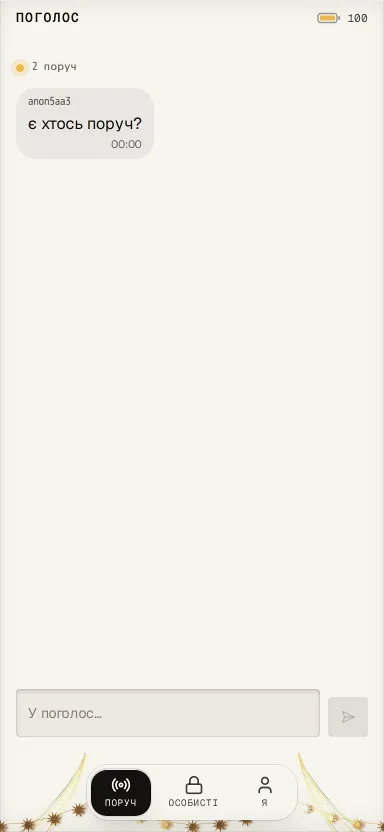
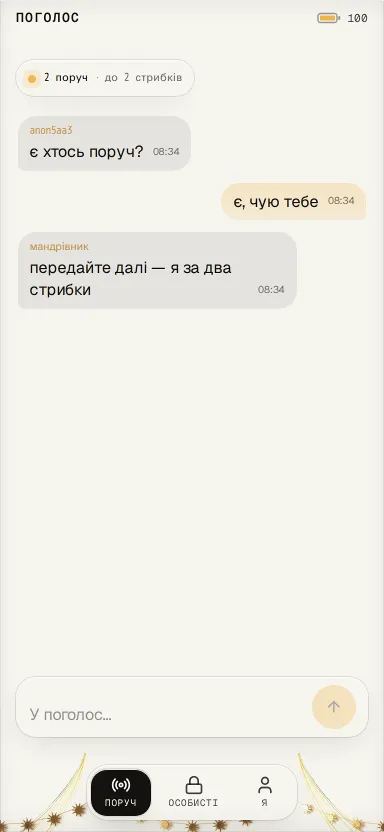
poholos: island chat redesign
The chat now sits between two glass islands (presence chip on top, the composer
at the bottom) with tailed, grouped bubbles and accent-tinted own messages —
the flat first cut is gone. Store captures refreshed for both themes.

Claude-Session: https://claude.ai/code/session_01SZDu9UJfxqsgc9qMprCseU

diff --git a/apps/poholos/view.js b/apps/poholos/view.js
@@ -1,42 +1,48 @@
-// Поголос — the two rooms of an off-grid mesh, and nothing more. All state comes from mesh.js (the bridge
-// with its browser mock); this file is pure UI. The presence line at the top of every screen is the answer
-// to "am I shouting into the void" — it is the peer count, live, from mesh.peers.
+// Поголос — the two rooms of an off-grid mesh. Pure UI over mesh.js (the bridge + its honest mock). The
+// modern shape: a scrolling feed between two glass ISLANDS — presence on top, the composer at the bottom —
+// with tailed bubbles. All depth comes from the kit's Island/surfaces, nothing hand-rolled.
 import { html } from "htm/preact";
 import { Fragment } from "preact";
 import { useState, useEffect, useRef } from "preact/hooks";
 import { atom } from "nanostores";
 import { useStore } from "@nanostores/preact";
 import { T } from "/_rt/i18n.js";
+import { Island } from "/_rt/ui.js";
 import { start, sendPublic, sendPrivate, $state, $peers, $room, $threads, $queued } from "./mesh.js";
 
 const Icon = (icon, cls) => html`<iconify-icon icon=${icon} class=${cls || ""}></iconify-icon>`;
 const clock = (ts, loc) => new Date(ts).toLocaleTimeString(loc === "uk" ? "uk-UA" : "en-US", { hour: "2-digit", minute: "2-digit" });
 const near = (t, n) => n === 0 ? T(t, "nearNone") : n === 1 ? T(t, "nearOne") : T(t, "nearMany", { n });
+const RCPT = { sent: "rcptSent", delivered: "rcptDelivered", read: "rcptRead", queued: "rcptQueued" };
 
-const $peer = atom(null);   // the private thread that is open, or null for the peer list
+const $peer = atom(null);   // the open private thread, or null for the peer list
 
-// ── presence: the one honest number, in the header of both rooms ───────────────────────────────────
+// ── presence: the one honest number, a glass chip that floats atop the feed ────────────────────────
 function Presence({ t }) {
   const s = useStore($state);
   const alone = s.peerCount === 0;
-  return html`<div class="ph-near text-muted">
-    <span class="ph-dot" data-alone=${alone ? "1" : "0"}></span>
-    <span>${near(t, s.peerCount)}${!alone && s.maxHops > 1 ? ` · ${T(t, "hops", { k: s.maxHops })}` : ""}</span>
-  </div>`;
+  return html`<${Island} className="self-start !py-1.5 !px-3 rounded-full">
+    <div class="ph-near">
+      <span class="ph-dot" data-alone=${alone ? "1" : "0"}></span>
+      <span>${near(t, s.peerCount)}</span>
+      ${!alone && s.maxHops > 1 && html`<span class="ph-near-sub">· ${T(t, "hops", { k: s.maxHops })}</span>`}
+    </div>
+  <//>`;
 }
 
-// ── the composer, shared by both rooms ─────────────────────────────────────────────────────────────
+// ── the composer, a floating island at the bottom ──────────────────────────────────────────────────
 function Composer({ t, placeholder, onSend }) {
   const [text, setText] = useState("");
   const send = () => { const v = text.trim(); if (!v) return; onSend(v); setText(""); };
-  return html`<div class="ph-composer">
-    <input class="input input-bordered ph-input h-[var(--ms-ctl)] min-h-0 rounded-[var(--ms-r-in)]"
-      value=${text} placeholder=${placeholder} spellcheck="false"
-      onInput=${(e) => setText(e.currentTarget.value)}
-      onKeyDown=${(e) => { if (e.key === "Enter") { e.preventDefault(); send(); } }} />
-    <button class="btn btn-primary btn-square rounded-[var(--ms-r-in)] shrink-0" aria-label=${T(t, "send")}
-      disabled=${!text.trim()} onClick=${send}>${Icon("lucide:send-horizontal")}</button>
-  </div>`;
+  return html`<${Island} className="!py-2 !px-3 rounded-[1.6rem]">
+    <div class="flex items-end gap-2">
+      <textarea class="ph-input" rows="1" value=${text} placeholder=${placeholder} spellcheck="false"
+        onInput=${(e) => { setText(e.currentTarget.value); e.currentTarget.style.height = "auto"; e.currentTarget.style.height = Math.min(e.currentTarget.scrollHeight, 96) + "px"; }}
+        onKeyDown=${(e) => { if (e.key === "Enter" && !e.shiftKey) { e.preventDefault(); send(); } }}></textarea>
+      <button class="ph-send" aria-label=${T(t, "send")} disabled=${!text.trim()} onClick=${send}>
+        ${Icon("lucide:arrow-up", "text-[1.1rem]")}</button>
+    </div>
+  <//>`;
 }
 
 function autoscroll(dep) {
@@ -44,6 +50,12 @@ function autoscroll(dep) {
   useEffect(() => { const el = ref.current; if (el) el.scrollTop = el.scrollHeight; }, [dep]);
   return ref;
 }
+
+const EmptyMascot = (text) => html`<div class="flex-1 grid place-items-center text-center px-6" data-mascot>
+  <p class="text-muted max-w-[15rem] leading-relaxed">${text}</p></div>`;
+
+// group flag: a message is the "first" of a run when the previous one was a different sender/side
+const firstOfRun = (list, i) => i === 0 || list[i - 1].mine !== list[i].mine || (!list[i].mine && list[i - 1].from !== list[i].from);
 
 // ── «Поруч» — the public room ──────────────────────────────────────────────────────────────────────
 export function room({ S }) {
@@ -55,35 +67,28 @@ export function room({ S }) {
   useEffect(() => { start(); }, []);
   const feed = autoscroll(msgs.length);
 
-  const empty = s.peerCount === 0
-    ? T(t, "roomEmptyAlone")
-    : T(t, "roomEmptyPeers", { n: s.peerCount });
-
   return html`<${Fragment}>
     <div class="ph-wrap h-full">
       <${Presence} t=${t} />
       ${msgs.length === 0
-        ? html`<div class="flex-1 grid place-items-center text-center px-6" data-mascot>
-            <p class="text-muted max-w-xs leading-relaxed">${empty}</p></div>`
+        ? EmptyMascot(s.peerCount === 0 ? T(t, "roomEmptyAlone") : T(t, "roomEmptyPeers", { n: s.peerCount }))
         : html`<div class="ph-feed" ref=${feed}>
-            ${msgs.map((m) => m.sys
+            ${msgs.map((m, i) => m.sys
               ? html`<div key=${m.id} class="ph-sys">${m.text}</div>`
-              : html`<div key=${m.id} class="ph-row" data-mine=${m.mine ? "1" : "0"}>
+              : html`<div key=${m.id} class="ph-row" data-mine=${m.mine ? "1" : "0"} data-first=${firstOfRun(msgs, i) ? "1" : "0"}>
                   <div class="ph-bubble">
-                    ${!m.mine && html`<div class="ph-who">${m.nick}</div>`}
-                    <div>${m.text}</div>
-                    <div class="ph-meta text-right">${clock(m.ts, loc)}</div>
+                    ${!m.mine && firstOfRun(msgs, i) && html`<div class="ph-who">${m.nick}</div>`}
+                    <span class="ph-text">${m.text}</span>
+                    <span class="ph-meta">${clock(m.ts, loc)}</span>
                   </div></div>`)}
           </div>`}
-      ${queued && html`<div class="ph-banner">${T(t, "queuedBanner")}</div>`}
+      ${queued && html`<div class="ph-banner">${Icon("lucide:clock", "opacity-70")} ${T(t, "queuedBanner")}</div>`}
       <${Composer} t=${t} placeholder=${T(t, "composerRoom")} onSend=${(v) => sendPublic(v)} />
     </div>
   <//>`;
 }
 
 // ── «Особисті» — the peer list, then a thread ──────────────────────────────────────────────────────
-const RCPT = { sent: "rcptSent", delivered: "rcptDelivered", read: "rcptRead", queued: "rcptQueued" };
-
 export function dm({ S }) {
   const t = useStore(S.t);
   const loc = useStore(S.locale);
@@ -93,25 +98,21 @@ export function dm({ S }) {
 
   if (open) return Thread({ t, loc, peerID: open });
 
-  if (peers.length === 0) return html`<${Fragment}>
-    <div class="ph-wrap h-full"><${Presence} t=${t} />
-      <div class="flex-1 grid place-items-center text-center px-6" data-mascot>
-        <p class="text-muted max-w-xs leading-relaxed">${T(t, "dmEmpty")}</p></div>
-    </div><//>`;
-
   return html`<${Fragment}>
-    <div class="ph-wrap h-full"><${Presence} t=${t} />
-      <div class="ph-feed">
-        ${peers.map((p) => html`<button key=${p.peerID}
-          class="flex items-center gap-3 w-full text-left p-2 rounded-[var(--ms-r)] hover:bg-[color-mix(in_oklch,currentColor_6%,transparent)]"
-          onClick=${() => $peer.set(p.peerID)}>
-          <span class="ph-dot" style="position:static"></span>
-          <span class="flex-1 min-w-0"><span class="block truncate">${p.nick}</span>
-            <span class="ph-meta">${T(t, p.hops === 1 ? "nearOne" : "hops", p.hops === 1 ? {} : { k: p.hops })}</span></span>
-          ${Icon("lucide:chevron-right", "text-muted shrink-0")}
-        </button>`)}
-      </div>
-    </div><//>`;
+    <div class="ph-wrap h-full">
+      <${Presence} t=${t} />
+      ${peers.length === 0
+        ? EmptyMascot(T(t, "dmEmpty"))
+        : html`<div class="ph-feed">
+            ${peers.map((p) => html`<button key=${p.peerID} class="ph-peer" onClick=${() => $peer.set(p.peerID)}>
+              <span class="ph-dot"></span>
+              <span class="flex-1 min-w-0"><span class="block truncate">${p.nick}</span>
+                <span class="ph-meta !float-none !m-0 !opacity-60">${p.hops === 1 ? T(t, "nearOne") : T(t, "hops", { k: p.hops })}</span></span>
+              ${Icon("lucide:chevron-right", "text-muted shrink-0 opacity-60")}
+            </button>`)}
+          </div>`}
+    </div>
+  <//>`;
 }
 
 function Thread({ t, loc, peerID }) {
@@ -125,13 +126,15 @@ function Thread({ t, loc, peerID }) {
       <div class="flex items-center gap-2">
         <button class="btn btn-ghost btn-sm btn-circle shrink-0" aria-label="←" onClick=${() => $peer.set(null)}>
           ${Icon("lucide:arrow-left")}</button>
-        <div class="flex-1 min-w-0"><div class="truncate font-medium">${peer?.nick || peerID}</div>
-          <div class="ph-near text-muted"><span>${T(t, "encrypted")}</span></div></div>
+        <div class="flex-1 min-w-0">
+          <div class="truncate font-medium leading-tight">${peer?.nick || peerID}</div>
+          <div class="ph-near ph-near-sub"><span>${Icon("lucide:lock", "text-[0.7rem]")}</span><span>${T(t, "encrypted")}</span></div>
+        </div>
       </div>
       <div class="ph-feed" ref=${feed}>
-        ${msgs.map((m) => html`<div key=${m.id} class="ph-row" data-mine=${m.mine ? "1" : "0"}>
-          <div class="ph-bubble"><div>${m.text}</div>
-            <div class="ph-meta text-right">${clock(m.ts, loc)}${m.mine && m.status ? ` · ${T(t, RCPT[m.status] || "rcptSent")}` : ""}</div>
+        ${msgs.map((m) => html`<div key=${m.id} class="ph-row" data-mine=${m.mine ? "1" : "0"} data-first="1">
+          <div class="ph-bubble"><span class="ph-text">${m.text}</span>
+            <span class="ph-meta">${clock(m.ts, loc)}${m.mine && m.status ? html` · ${T(t, RCPT[m.status] || "rcptSent")}` : ""}</span>
           </div></div>`)}
       </div>
       <${Composer} t=${t} placeholder=${T(t, "composerDm")} onSend=${(v) => sendPrivate(peerID, v)} />

diff --git a/apps/poholos/index.html b/apps/poholos/index.html
@@ -52,32 +52,62 @@
   }
   </script>
   <style>
-    /* Поголос — the chat surface. Bubbles, the presence pill and the composer, on the kit's tokens so a
-       material re-inks them for free. Nothing here is layout the runtime already owns. */
-    /* A chat fills the screen and pins its composer to the bottom. If the runtime slot is height-constrained
-       (h-full works) that wins; otherwise fall back to the viewport minus the MEASURED chrome the runtime
-       publishes (--hdr-h/--dock-h — never a hand-written pixel), so the composer never floats mid-void. */
-    .ph-wrap{display:flex;flex-direction:column;gap:var(--ms-gap);min-height:0;
+    /* Поголос — a modern mesh chat: a scrolling feed between two glass ISLANDS (presence on top, the
+       composer at the bottom), bubbles with a tail, depth from the kit's surfaces. Everything on the
+       --ms-* tokens and --app-accent so a material re-inks it for free. */
+    .ph-wrap{display:flex;flex-direction:column;gap:calc(var(--ms-gap)*.75);min-height:0;
       height:calc(100svh - var(--hdr-h,56px) - var(--dock-h,64px) - var(--ms-pad,1rem)*2)}
-    /* the presence pill: a pulsing node + the count. Accent when someone is near, muted when alone. */
+
+    /* presence island: a pulsing node + the count, a small glass chip that floats at the top of the feed */
     .ph-near{display:inline-flex;align-items:center;gap:.5rem;font-family:var(--ms-mono,ui-monospace,monospace);
-      font-size:var(--ms-label);letter-spacing:.04em}
-    .ph-dot{width:.5rem;height:.5rem;border-radius:999px;background:var(--app-accent);box-shadow:0 0 0 0 color-mix(in oklch,var(--app-accent) 60%,transparent);animation:ph-pulse 2.4s ease-out infinite}
-    .ph-dot[data-alone="1"]{background:color-mix(in oklch,currentColor 40%,transparent);animation:none;box-shadow:none}
-    @keyframes ph-pulse{0%{box-shadow:0 0 0 0 color-mix(in oklch,var(--app-accent) 55%,transparent)}70%{box-shadow:0 0 0 .5rem transparent}100%{box-shadow:0 0 0 0 transparent}}
+      font-size:var(--ms-label);letter-spacing:.03em;line-height:1}
+    .ph-dot{width:.5rem;height:.5rem;border-radius:999px;background:var(--app-accent);flex:none;
+      box-shadow:0 0 .5rem color-mix(in oklch,var(--app-accent) 70%,transparent);animation:ph-pulse 2.4s ease-out infinite}
+    .ph-dot[data-alone="1"]{background:color-mix(in oklch,currentColor 35%,transparent);animation:none;box-shadow:none}
+    @keyframes ph-pulse{0%{box-shadow:0 0 0 0 color-mix(in oklch,var(--app-accent) 55%,transparent)}70%{box-shadow:0 0 0 .55rem transparent}100%{box-shadow:0 0 0 0 transparent}}
     @media (prefers-reduced-motion:reduce){.ph-dot{animation:none}}
-    /* the message list scrolls; the composer stays put */
-    .ph-feed{display:flex;flex-direction:column;gap:calc(var(--ms-gap)*.6);overflow-y:auto;min-height:0;flex:1}
-    .ph-row{display:flex}
+    .ph-near-sub{opacity:.6}
+
+    /* the feed scrolls between the islands; messages grouped, comfortable rhythm */
+    .ph-feed{display:flex;flex-direction:column;gap:.28rem;overflow-y:auto;min-height:0;flex:1;
+      padding:.2rem .1rem;scrollbar-width:none}
+    .ph-feed::-webkit-scrollbar{display:none}
+    .ph-row{display:flex;max-width:100%}
     .ph-row[data-mine="1"]{justify-content:flex-end}
-    .ph-bubble{max-width:80%;padding:.5rem .75rem;border-radius:var(--ms-r);background:var(--ms-surface,color-mix(in oklch,currentColor 6%,transparent));line-height:1.35}
-    .ph-row[data-mine="1"] .ph-bubble{background:color-mix(in oklch,var(--app-accent) 16%,transparent)}
-    .ph-who{font-family:var(--ms-mono,ui-monospace,monospace);font-size:var(--ms-label);opacity:.7;margin-bottom:.1rem}
-    .ph-sys{align-self:center;font-size:var(--ms-label);opacity:.55;padding:.15rem 0}
-    .ph-meta{font-size:var(--ms-label);opacity:.6;margin-top:.15rem}
-    .ph-composer{display:flex;gap:.5rem;align-items:flex-end}
-    .ph-input{flex:1;min-width:0}
-    .ph-banner{font-size:var(--ms-label);opacity:.75;padding:.35rem .6rem;border-radius:var(--ms-r);background:color-mix(in oklch,var(--app-accent) 10%,transparent)}
+    .ph-row[data-first="1"]{margin-top:.5rem}
+
+    /* the bubble: a small raised surface with a tail on the sender's side */
+    .ph-bubble{position:relative;max-width:80%;padding:.5rem .75rem .4rem;line-height:1.4;
+      border-radius:1.15rem 1.15rem 1.15rem .4rem;
+      background:color-mix(in oklch,var(--base-content,currentColor) 7%,transparent);
+      box-shadow:0 1px 0 color-mix(in oklch,var(--base-content,currentColor) 5%,transparent)}
+    .ph-row[data-mine="1"] .ph-bubble{border-radius:1.15rem 1.15rem .4rem 1.15rem;
+      background:linear-gradient(180deg,color-mix(in oklch,var(--app-accent) 26%,transparent),color-mix(in oklch,var(--app-accent) 17%,transparent))}
+    .ph-who{font-family:var(--ms-mono,ui-monospace,monospace);font-size:var(--ms-label);
+      color:color-mix(in oklch,var(--app-accent) 78%,var(--base-content,currentColor));opacity:.9;margin-bottom:.12rem}
+    .ph-text{white-space:pre-wrap;word-break:break-word}
+    .ph-meta{display:inline-flex;gap:.3rem;align-items:center;float:right;margin:.2rem 0 -.1rem .6rem;
+      font-size:calc(var(--ms-label) * .92);opacity:.55;font-variant-numeric:tabular-nums}
+    .ph-sys{align-self:center;font-size:var(--ms-label);opacity:.5;padding:.3rem 0}
+
+    /* the store/queue banner — a thin accent island line */
+    .ph-banner{display:flex;gap:.45rem;align-items:center;font-size:var(--ms-label);opacity:.85;
+      padding:.4rem .7rem;border-radius:999px;align-self:center;
+      background:color-mix(in oklch,var(--app-accent) 12%,transparent)}
+
+    /* the composer island's field: seamless inside the glass, no double border */
+    .ph-input{flex:1;min-width:0;background:transparent;border:0;outline:0;font:inherit;color:inherit;
+      padding:.15rem .1rem;resize:none}
+    .ph-input::placeholder{color:color-mix(in oklch,currentColor 45%,transparent)}
+    .ph-send{flex:none;display:grid;place-items:center;width:var(--ms-ctl);height:var(--ms-ctl);
+      border-radius:999px;background:var(--app-accent);color:#000;transition:opacity .15s,transform .1s}
+    .ph-send:disabled{opacity:.3}
+    .ph-send:active{transform:scale(.92)}
+
+    /* peer list rows inside the feed */
+    .ph-peer{display:flex;align-items:center;gap:.7rem;width:100%;text-align:left;padding:.6rem .7rem;
+      border-radius:var(--ms-r);background:color-mix(in oklch,var(--base-content,currentColor) 5%,transparent)}
+    .ph-peer:active{background:color-mix(in oklch,var(--base-content,currentColor) 9%,transparent)}
   </style>
 </head>
 <body class="bg-base-200 min-h-dvh">

diff --git a/apps/poholos/head.html b/apps/poholos/head.html
@@ -1,28 +1,58 @@
   <style>
-    /* Поголос — the chat surface. Bubbles, the presence pill and the composer, on the kit's tokens so a
-       material re-inks them for free. Nothing here is layout the runtime already owns. */
-    /* A chat fills the screen and pins its composer to the bottom. If the runtime slot is height-constrained
-       (h-full works) that wins; otherwise fall back to the viewport minus the MEASURED chrome the runtime
-       publishes (--hdr-h/--dock-h — never a hand-written pixel), so the composer never floats mid-void. */
-    .ph-wrap{display:flex;flex-direction:column;gap:var(--ms-gap);min-height:0;
+    /* Поголос — a modern mesh chat: a scrolling feed between two glass ISLANDS (presence on top, the
+       composer at the bottom), bubbles with a tail, depth from the kit's surfaces. Everything on the
+       --ms-* tokens and --app-accent so a material re-inks it for free. */
+    .ph-wrap{display:flex;flex-direction:column;gap:calc(var(--ms-gap)*.75);min-height:0;
       height:calc(100svh - var(--hdr-h,56px) - var(--dock-h,64px) - var(--ms-pad,1rem)*2)}
-    /* the presence pill: a pulsing node + the count. Accent when someone is near, muted when alone. */
+
+    /* presence island: a pulsing node + the count, a small glass chip that floats at the top of the feed */
     .ph-near{display:inline-flex;align-items:center;gap:.5rem;font-family:var(--ms-mono,ui-monospace,monospace);
-      font-size:var(--ms-label);letter-spacing:.04em}
-    .ph-dot{width:.5rem;height:.5rem;border-radius:999px;background:var(--app-accent);box-shadow:0 0 0 0 color-mix(in oklch,var(--app-accent) 60%,transparent);animation:ph-pulse 2.4s ease-out infinite}
-    .ph-dot[data-alone="1"]{background:color-mix(in oklch,currentColor 40%,transparent);animation:none;box-shadow:none}
-    @keyframes ph-pulse{0%{box-shadow:0 0 0 0 color-mix(in oklch,var(--app-accent) 55%,transparent)}70%{box-shadow:0 0 0 .5rem transparent}100%{box-shadow:0 0 0 0 transparent}}
+      font-size:var(--ms-label);letter-spacing:.03em;line-height:1}
+    .ph-dot{width:.5rem;height:.5rem;border-radius:999px;background:var(--app-accent);flex:none;
+      box-shadow:0 0 .5rem color-mix(in oklch,var(--app-accent) 70%,transparent);animation:ph-pulse 2.4s ease-out infinite}
+    .ph-dot[data-alone="1"]{background:color-mix(in oklch,currentColor 35%,transparent);animation:none;box-shadow:none}
+    @keyframes ph-pulse{0%{box-shadow:0 0 0 0 color-mix(in oklch,var(--app-accent) 55%,transparent)}70%{box-shadow:0 0 0 .55rem transparent}100%{box-shadow:0 0 0 0 transparent}}
     @media (prefers-reduced-motion:reduce){.ph-dot{animation:none}}
-    /* the message list scrolls; the composer stays put */
-    .ph-feed{display:flex;flex-direction:column;gap:calc(var(--ms-gap)*.6);overflow-y:auto;min-height:0;flex:1}
-    .ph-row{display:flex}
+    .ph-near-sub{opacity:.6}
+
+    /* the feed scrolls between the islands; messages grouped, comfortable rhythm */
+    .ph-feed{display:flex;flex-direction:column;gap:.28rem;overflow-y:auto;min-height:0;flex:1;
+      padding:.2rem .1rem;scrollbar-width:none}
+    .ph-feed::-webkit-scrollbar{display:none}
+    .ph-row{display:flex;max-width:100%}
     .ph-row[data-mine="1"]{justify-content:flex-end}
-    .ph-bubble{max-width:80%;padding:.5rem .75rem;border-radius:var(--ms-r);background:var(--ms-surface,color-mix(in oklch,currentColor 6%,transparent));line-height:1.35}
-    .ph-row[data-mine="1"] .ph-bubble{background:color-mix(in oklch,var(--app-accent) 16%,transparent)}
-    .ph-who{font-family:var(--ms-mono,ui-monospace,monospace);font-size:var(--ms-label);opacity:.7;margin-bottom:.1rem}
-    .ph-sys{align-self:center;font-size:var(--ms-label);opacity:.55;padding:.15rem 0}
-    .ph-meta{font-size:var(--ms-label);opacity:.6;margin-top:.15rem}
-    .ph-composer{display:flex;gap:.5rem;align-items:flex-end}
-    .ph-input{flex:1;min-width:0}
-    .ph-banner{font-size:var(--ms-label);opacity:.75;padding:.35rem .6rem;border-radius:var(--ms-r);background:color-mix(in oklch,var(--app-accent) 10%,transparent)}
+    .ph-row[data-first="1"]{margin-top:.5rem}
+
+    /* the bubble: a small raised surface with a tail on the sender's side */
+    .ph-bubble{position:relative;max-width:80%;padding:.5rem .75rem .4rem;line-height:1.4;
+      border-radius:1.15rem 1.15rem 1.15rem .4rem;
+      background:color-mix(in oklch,var(--base-content,currentColor) 7%,transparent);
+      box-shadow:0 1px 0 color-mix(in oklch,var(--base-content,currentColor) 5%,transparent)}
+    .ph-row[data-mine="1"] .ph-bubble{border-radius:1.15rem 1.15rem .4rem 1.15rem;
+      background:linear-gradient(180deg,color-mix(in oklch,var(--app-accent) 26%,transparent),color-mix(in oklch,var(--app-accent) 17%,transparent))}
+    .ph-who{font-family:var(--ms-mono,ui-monospace,monospace);font-size:var(--ms-label);
+      color:color-mix(in oklch,var(--app-accent) 78%,var(--base-content,currentColor));opacity:.9;margin-bottom:.12rem}
+    .ph-text{white-space:pre-wrap;word-break:break-word}
+    .ph-meta{display:inline-flex;gap:.3rem;align-items:center;float:right;margin:.2rem 0 -.1rem .6rem;
+      font-size:calc(var(--ms-label) * .92);opacity:.55;font-variant-numeric:tabular-nums}
+    .ph-sys{align-self:center;font-size:var(--ms-label);opacity:.5;padding:.3rem 0}
+
+    /* the store/queue banner — a thin accent island line */
+    .ph-banner{display:flex;gap:.45rem;align-items:center;font-size:var(--ms-label);opacity:.85;
+      padding:.4rem .7rem;border-radius:999px;align-self:center;
+      background:color-mix(in oklch,var(--app-accent) 12%,transparent)}
+
+    /* the composer island's field: seamless inside the glass, no double border */
+    .ph-input{flex:1;min-width:0;background:transparent;border:0;outline:0;font:inherit;color:inherit;
+      padding:.15rem .1rem;resize:none}
+    .ph-input::placeholder{color:color-mix(in oklch,currentColor 45%,transparent)}
+    .ph-send{flex:none;display:grid;place-items:center;width:var(--ms-ctl);height:var(--ms-ctl);
+      border-radius:999px;background:var(--app-accent);color:#000;transition:opacity .15s,transform .1s}
+    .ph-send:disabled{opacity:.3}
+    .ph-send:active{transform:scale(.92)}
+
+    /* peer list rows inside the feed */
+    .ph-peer{display:flex;align-items:center;gap:.7rem;width:100%;text-align:left;padding:.6rem .7rem;
+      border-radius:var(--ms-r);background:color-mix(in oklch,var(--base-content,currentColor) 5%,transparent)}
+    .ph-peer:active{background:color-mix(in oklch,var(--base-content,currentColor) 9%,transparent)}
   </style>

diff --git a/apps/poholos/mesh.js b/apps/poholos/mesh.js
@@ -49,8 +49,10 @@ async function startLive() {
 
 export async function start() {
   if ($state.get().running) return;
-  if (live()) return startLive();
+  // demo FIRST: under the eye/e2e `gate` makes the bridge report present with single-event catalogue mocks,
+  // which would show one stray message. Our own mock paints a full, deterministic conversation instead.
   if (demo()) return startMock();
+  if (live()) return startLive();
   // Honest idle: no transport here (a plain browser, or the APK before the mesh flavour exists). Running,
   // but zero peers and zero messages — the room shows "quiet / no one nearby", which is the truth.
   $state.set({ ...$state.get(), running: true, myPeerID: "", nick: $state.get().nick || "" });
